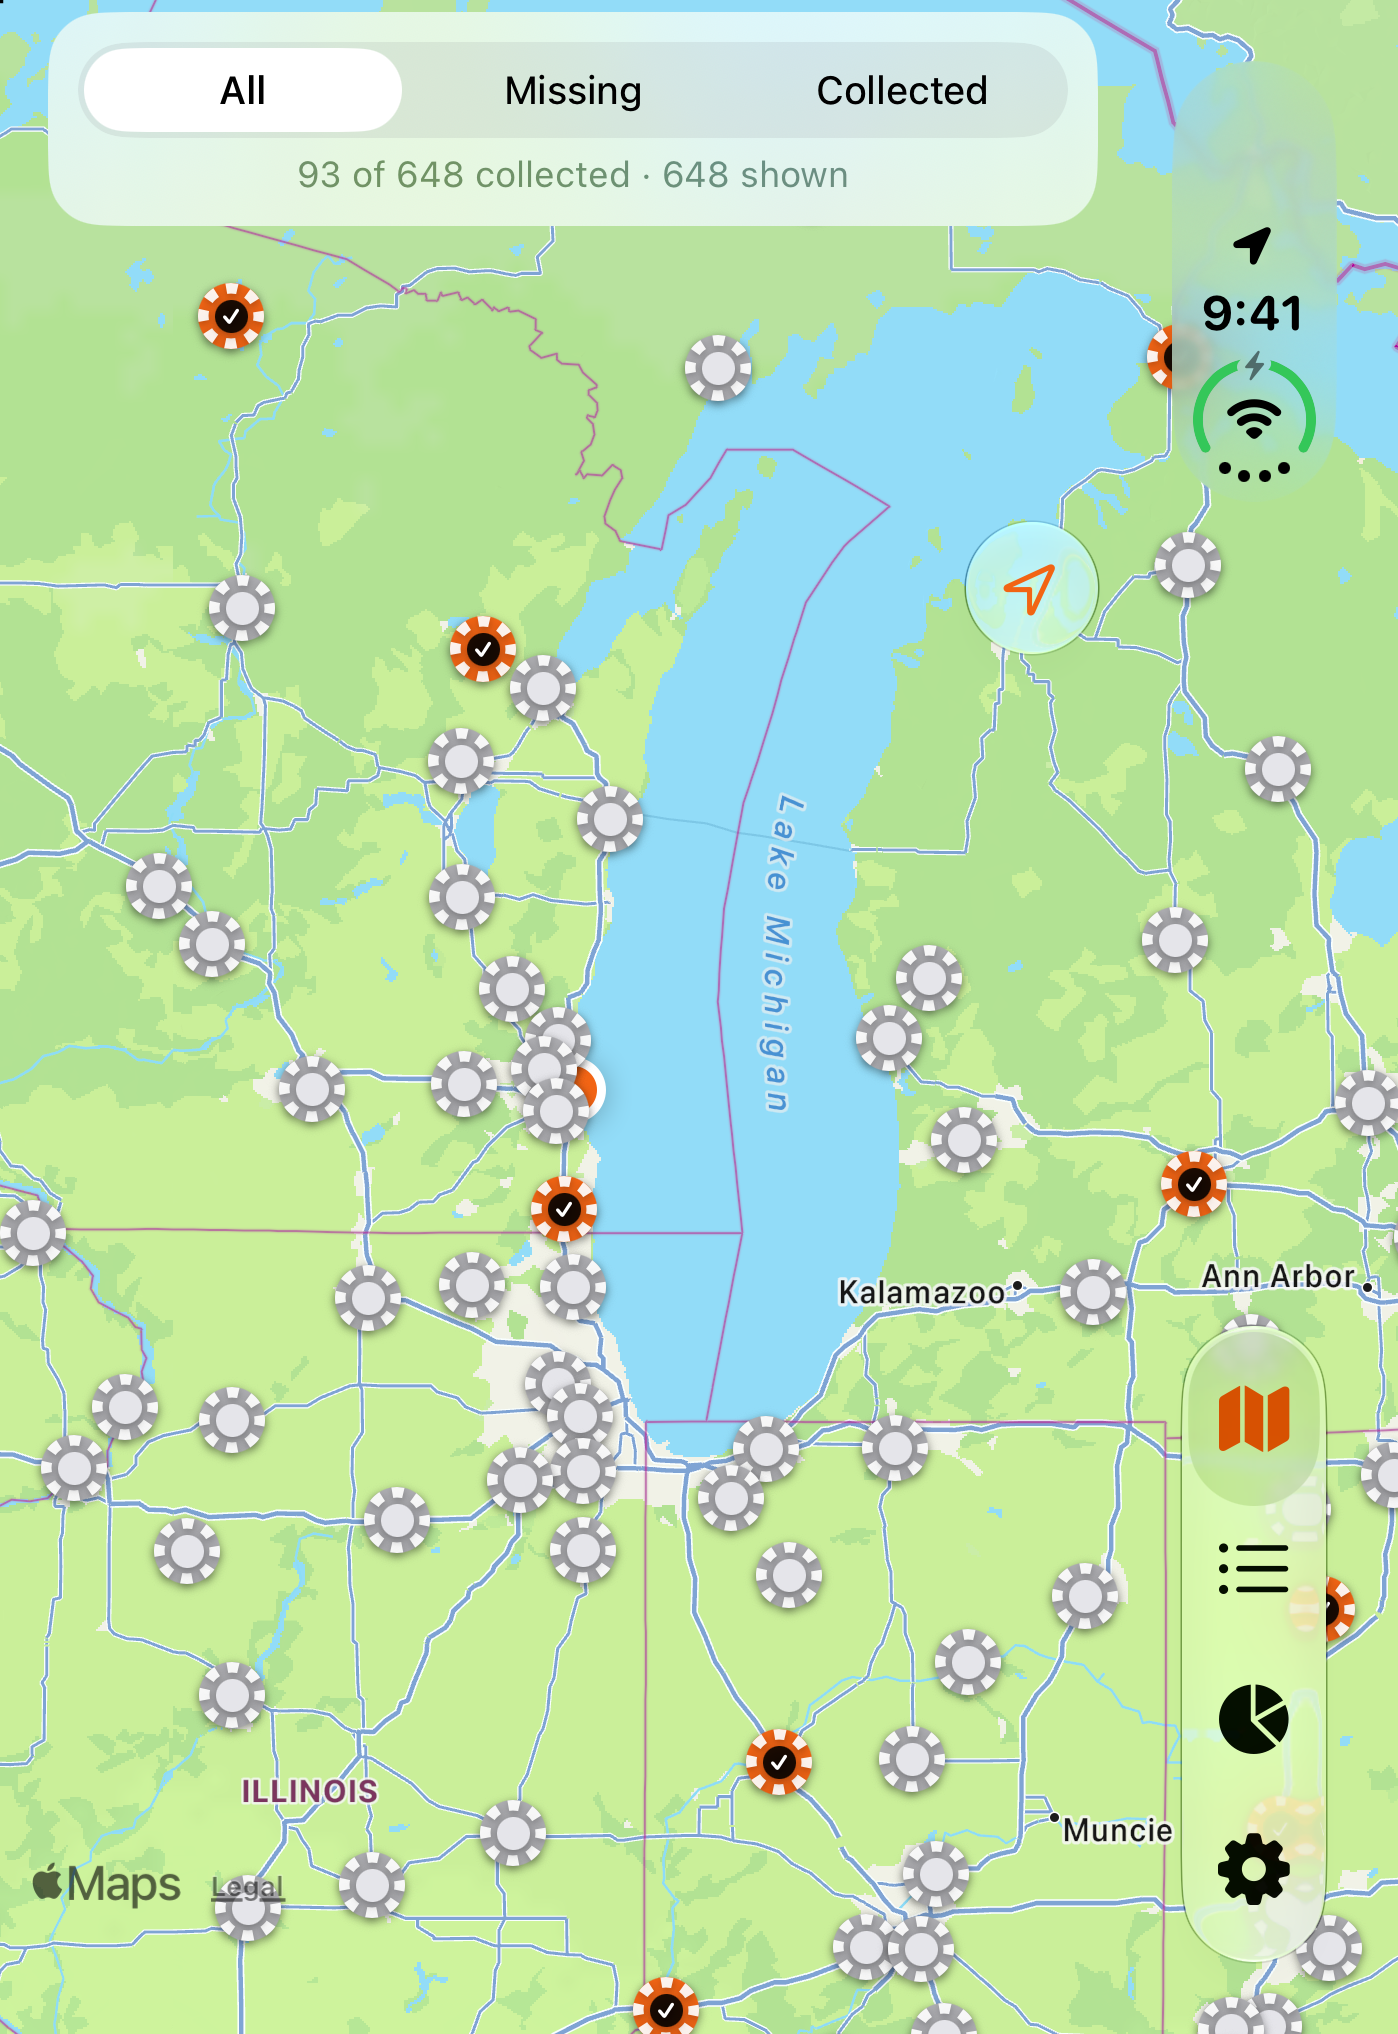
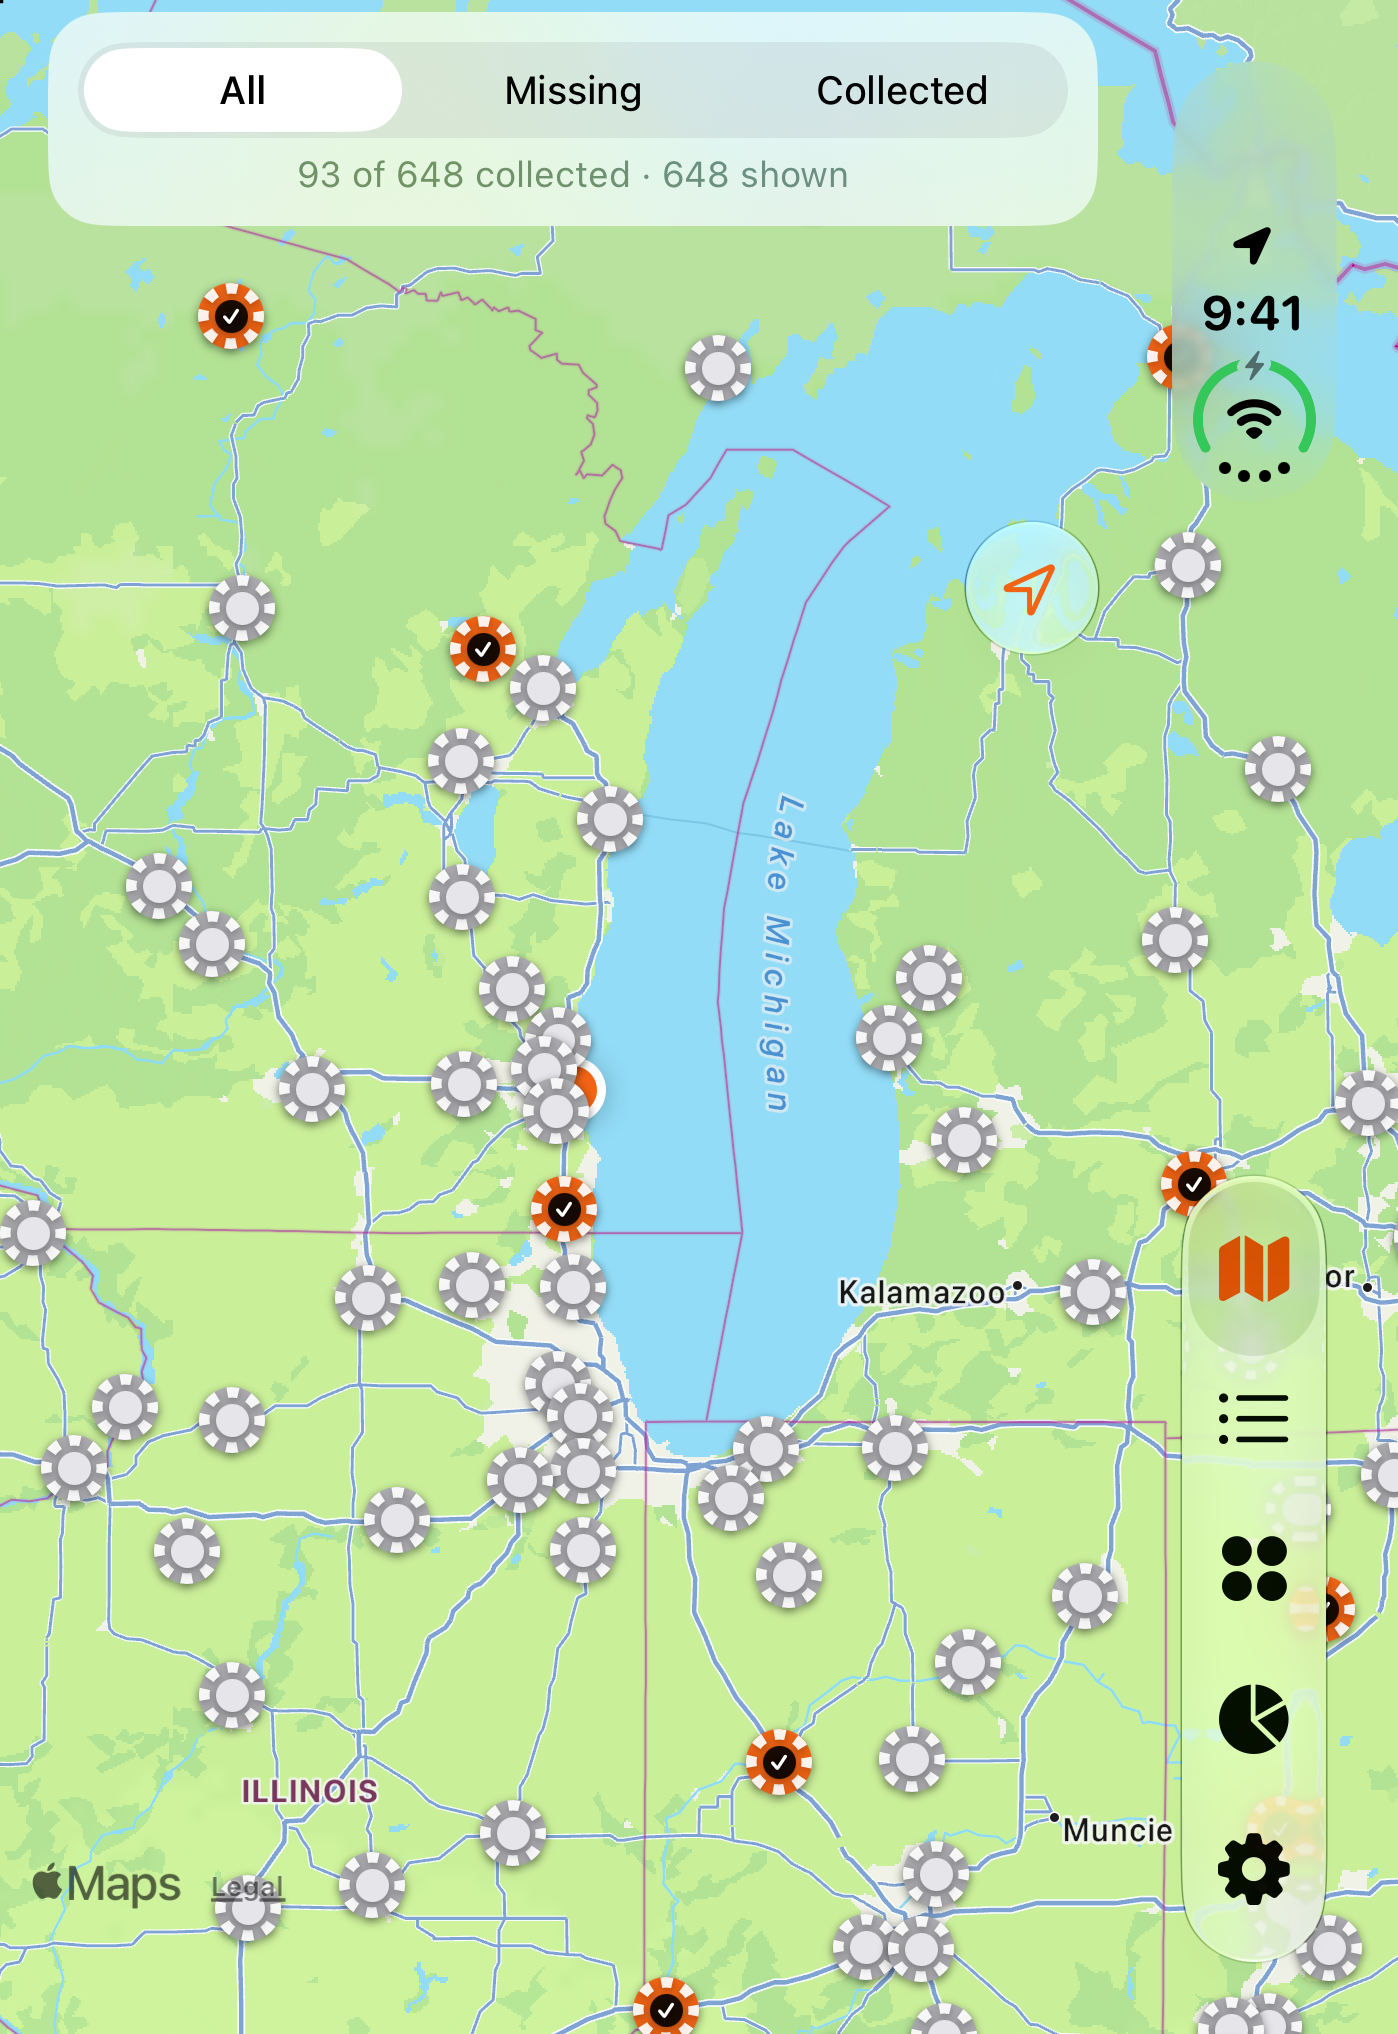
Retake App Store screenshots for 1.3: map, collection, dealers, detail, progress
- Every set (6.9", 6.3", iPhone Duo folded and unfolded) now shows the
  five-tab layout, with the new Collection tab second and chip photos on
  the dealer page.
- Demo chip photos are original stand-in chips drawn by
  Tools/make_demo_chip_photos.swift; Tools/capture_screenshots.sh takes a set.

Changed region(s): [[0.8305, 0.5575, 0.9535, 0.8053]]

diff --git a/Tools/make_demo_chip_photos.swift b/Tools/make_demo_chip_photos.swift
@@ -1,0 +1,163 @@
+// Draws original stand-in chip photos for the demo collection used in App Store screenshots.
+// Not any real chip design. Usage: swift Tools/make_demo_chip_photos.swift HarleyChipTracker/Resources/dealers.json <outDir>
+import AppKit
+import Foundation
+
+struct Payload: Decodable { let dealers: [D] }
+struct D: Decodable { let id: String; let name: String; let city: String; let region: String; let closed: String? }
+
+let args = CommandLine.arguments
+let data = try! Data(contentsOf: URL(fileURLWithPath: args[1]))
+let all = try! JSONDecoder().decode(Payload.self, from: data).dealers.filter { $0.closed == nil }
+let out = URL(fileURLWithPath: args[2])
+try? FileManager.default.createDirectory(at: out, withIntermediateDirectories: true)
+
+let rims: [NSColor] = [
+    NSColor(red: 0.78, green: 0.33, blue: 0.08, alpha: 1), // orange
+    NSColor(red: 0.12, green: 0.12, blue: 0.13, alpha: 1), // black
+    NSColor(red: 0.62, green: 0.1, blue: 0.1, alpha: 1),   // red
+    NSColor(red: 0.1, green: 0.24, blue: 0.5, alpha: 1),   // blue
+    NSColor(red: 0.12, green: 0.38, blue: 0.22, alpha: 1), // green
+    NSColor(red: 0.45, green: 0.45, blue: 0.47, alpha: 1), // silver
+]
+
+func seeded(_ s: String) -> UInt64 { s.unicodeScalars.reduce(1469598103934665603) { ($0 ^ UInt64($1.value)) &* 1099511628211 } }
+
+func drawArc(_ text: String, ctx: CGContext, radius: CGFloat, maxSweep: CGFloat, size: CGFloat, color: NSColor, onTop: Bool) {
+    var fontSize = size
+    var attrs: [NSAttributedString.Key: Any] = [:]
+    var widths: [CGFloat] = []
+    let letters = text.map { String($0) as NSString }
+    repeat {
+        attrs = [.font: NSFont.systemFont(ofSize: fontSize, weight: .heavy), .foregroundColor: color, .kern: fontSize * 0.04]
+        widths = letters.map { $0.size(withAttributes: attrs).width + fontSize * 0.05 }
+        fontSize *= 0.95
+    } while widths.reduce(0, +) / radius > maxSweep
+    let sweep = widths.reduce(0, +) / radius
+    // y-up coordinates: top is +pi/2, text over the top reads clockwise (angle decreasing).
+    var angle = onTop ? .pi / 2 + sweep / 2 : -.pi / 2 - sweep / 2
+    for (letter, width) in zip(letters, widths) {
+        let half = width / 2 / radius
+        angle += onTop ? -half : half
+        ctx.saveGState()
+        ctx.translateBy(x: radius * cos(angle), y: radius * sin(angle))
+        ctx.rotate(by: onTop ? angle - .pi / 2 : angle + .pi / 2)
+        let s = letter.size(withAttributes: attrs)
+        letter.draw(at: CGPoint(x: -s.width / 2, y: -s.height / 2), withAttributes: attrs)
+        ctx.restoreGState()
+        angle += onTop ? -half : half
+    }
+}
+
+func render(_ d: D, index: Int) -> NSBitmapImageRep {
+    let side = 1200
+    let rep = NSBitmapImageRep(bitmapDataPlanes: nil, pixelsWide: side, pixelsHigh: side, bitsPerSample: 8,
+                               samplesPerPixel: 4, hasAlpha: true, isPlanar: false, colorSpaceName: .deviceRGB,
+                               bytesPerRow: 0, bitsPerPixel: 0)!
+    NSGraphicsContext.saveGraphicsState()
+    NSGraphicsContext.current = NSGraphicsContext(bitmapImageRep: rep)
+    let ctx = NSGraphicsContext.current!.cgContext
+    var rng = seeded(d.id)
+    func rand() -> CGFloat { rng = rng &* 6364136223846793005 &+ 1442695040888963407; return CGFloat(rng >> 33) / CGFloat(1 << 31) }
+
+    // Wooden table.
+    let wood = NSGradient(colors: [NSColor(red: 0.36, green: 0.24, blue: 0.15, alpha: 1),
+                                   NSColor(red: 0.25, green: 0.16, blue: 0.1, alpha: 1)])!
+    wood.draw(in: NSRect(x: 0, y: 0, width: side, height: side), angle: -60)
+    for i in 0..<70 {
+        let y = CGFloat(i) * 18 + rand() * 10
+        ctx.setStrokeColor(NSColor(white: rand() > 0.5 ? 0 : 1, alpha: 0.04 + rand() * 0.04).cgColor)
+        ctx.setLineWidth(2 + rand() * 5)
+        ctx.move(to: CGPoint(x: 0, y: y))
+        ctx.addCurve(to: CGPoint(x: CGFloat(side), y: y + rand() * 40 - 20),
+                     control1: CGPoint(x: 400, y: y + rand() * 30 - 15), control2: CGPoint(x: 800, y: y + rand() * 30 - 15))
+        ctx.strokePath()
+    }
+
+    let rim = rims[index % rims.count]
+    let r: CGFloat = 470
+    ctx.translateBy(x: 600 + rand() * 30 - 15, y: 600 + rand() * 30 - 15)
+    ctx.rotate(by: (rand() - 0.5) * 0.5)
+
+    // Shadow and rim.
+    ctx.saveGState()
+    ctx.setShadow(offset: CGSize(width: 14, height: -20), blur: 40, color: NSColor(white: 0, alpha: 0.6).cgColor)
+    ctx.setFillColor(rim.cgColor)
+    ctx.fillEllipse(in: CGRect(x: -r, y: -r, width: 2 * r, height: 2 * r))
+    ctx.restoreGState()
+    // Edge inserts.
+    ctx.setFillColor(NSColor(white: 0.97, alpha: 1).cgColor)
+    for spot in 0..<8 {
+        let a = Double(spot) * .pi / 4 + .pi / 8
+        ctx.saveGState()
+        ctx.translateBy(x: cos(a) * r * 0.92, y: sin(a) * r * 0.92)
+        ctx.rotate(by: a)
+        ctx.fill(CGRect(x: -r * 0.08, y: -r * 0.1, width: r * 0.16, height: r * 0.2))
+        ctx.restoreGState()
+    }
+    // Inlay.
+    let inlay = r * 0.8
+    let paper = NSColor(red: 0.97, green: 0.95, blue: 0.9, alpha: 1)
+    ctx.setFillColor(paper.cgColor)
+    ctx.fillEllipse(in: CGRect(x: -inlay, y: -inlay, width: 2 * inlay, height: 2 * inlay))
+    let ink = rim == rims[5] ? NSColor(white: 0.1, alpha: 1) : rim.blended(withFraction: 0.25, of: .black)!
+    ctx.setStrokeColor(ink.cgColor)
+    ctx.setLineWidth(6)
+    ctx.strokeEllipse(in: CGRect(x: -inlay * 0.94, y: -inlay * 0.94, width: 2 * inlay * 0.94, height: 2 * inlay * 0.94))
+    ctx.strokeEllipse(in: CGRect(x: -inlay * 0.6, y: -inlay * 0.6, width: 2 * inlay * 0.6, height: 2 * inlay * 0.6))
+
+    // Center: state, a star, and a year.
+    let center = d.region.uppercased() as NSString
+    let cAttrs: [NSAttributedString.Key: Any] = [.font: NSFont.systemFont(ofSize: 150, weight: .black), .foregroundColor: ink]
+    let cs = center.size(withAttributes: cAttrs)
+    center.draw(at: CGPoint(x: -cs.width / 2, y: -cs.height / 2 - 18), withAttributes: cAttrs)
+    let star = NSBezierPath()
+    for p in 0..<10 {
+        let a = Double(p) * .pi / 5 + .pi / 2
+        let rr: CGFloat = p.isMultiple(of: 2) ? 38 : 16
+        let pt = CGPoint(x: cos(a) * rr, y: sin(a) * rr + 120)
+        p == 0 ? star.move(to: pt) : star.line(to: pt)
+    }
+    star.close()
+    ink.setFill(); star.fill()
+    let year = "EST. \(1940 + Int(rand() * 70))" as NSString
+    let yAttrs: [NSAttributedString.Key: Any] = [.font: NSFont.systemFont(ofSize: 40, weight: .bold), .foregroundColor: ink, .kern: 4]
+    let ys = year.size(withAttributes: yAttrs)
+    year.draw(at: CGPoint(x: -ys.width / 2, y: -150), withAttributes: yAttrs)
+
+    let name = d.name.replacingOccurrences(of: " Harley-Davidson", with: "").uppercased()
+    drawArc(name, ctx: ctx, radius: inlay * 0.77, maxSweep: 2.6, size: 62, color: ink, onTop: true)
+    drawArc("\(d.city), \(d.region)".uppercased(), ctx: ctx, radius: inlay * 0.77, maxSweep: 2.2, size: 46, color: ink, onTop: false)
+
+    // Soft light from the top left.
+    let light = NSGradient(colors: [NSColor(white: 1, alpha: 0.14), NSColor(white: 1, alpha: 0)])!
+    ctx.saveGState()
+    ctx.addEllipse(in: CGRect(x: -r, y: -r, width: 2 * r, height: 2 * r)); ctx.clip()
+    light.draw(in: NSRect(x: -r, y: -r, width: 2 * r, height: 2 * r), angle: -50)
+    ctx.restoreGState()
+
+    NSGraphicsContext.restoreGraphicsState()
+    return rep
+}
+
+func jpeg(_ rep: NSBitmapImageRep, side: Int, to url: URL) {
+    let small = NSBitmapImageRep(bitmapDataPlanes: nil, pixelsWide: side, pixelsHigh: side, bitsPerSample: 8,
+                                 samplesPerPixel: 4, hasAlpha: true, isPlanar: false, colorSpaceName: .deviceRGB,
+                                 bytesPerRow: 0, bitsPerPixel: 0)!
+    NSGraphicsContext.saveGraphicsState()
+    NSGraphicsContext.current = NSGraphicsContext(bitmapImageRep: small)
+    NSGraphicsContext.current!.imageInterpolation = .high
+    rep.draw(in: NSRect(x: 0, y: 0, width: side, height: side))
+    NSGraphicsContext.restoreGraphicsState()
+    try! small.representation(using: .jpeg, properties: [.compressionFactor: 0.85])!.write(to: url)
+}
+
+var n = 0
+for (offset, d) in all.enumerated() where offset.isMultiple(of: 7) {
+    let rep = render(d, index: n)
+    let file = d.id.addingPercentEncoding(withAllowedCharacters: CharacterSet.alphanumerics.union(CharacterSet(charactersIn: "-_"))) ?? d.id
+    jpeg(rep, side: 1200, to: out.appendingPathComponent(file + ".jpg"))
+    jpeg(rep, side: 360, to: out.appendingPathComponent(file + ".thumb.jpg"))
+    n += 1
+}
+print("rendered \(n)")

diff --git a/README.md b/README.md
@@ -11,11 +11,11 @@ Chip Chaser is an iPhone app for Harley-Davidson chip collectors (it started out
 
 On iPhone Duo's outer screen (folded), iOS moves the tab bar to a rail along the right edge; no layout changes were needed:
 
-<img src="docs/appstore/duo/preview.png" alt="Map, Dealers, Progress and dealer detail on iPhone Duo, with the tab bar as a rail on the right">
+<img src="docs/appstore/duo/preview.png" alt="Map, Collection, Dealers, dealer detail and Progress on iPhone Duo, with the tab bar as a rail on the right">
 
 Unfolded, the app fills the big inner screen in landscape, with the same rail on the right:
 
-<img src="docs/appstore/duo-unfolded/preview.png" alt="Map, Dealers, Progress and dealer detail on the unfolded iPhone Duo's inner screen, in landscape">
+<img src="docs/appstore/duo-unfolded/preview.png" alt="Map, Collection, Dealers, dealer detail and Progress on the unfolded iPhone Duo's inner screen, in landscape">
 
 Full-size Duo screenshots are in [`docs/appstore/duo/`](docs/appstore/duo/) (folded) and [`docs/appstore/duo-unfolded/`](docs/appstore/duo-unfolded/), next to the App Store screenshots in [`docs/appstore/`](docs/appstore/).
 
@@ -86,7 +86,7 @@ From the command line:
 xcodebuild test -project HarleyChipTracker.xcodeproj -scheme HarleyChipTracker -destination 'platform=iOS Simulator,name=iPhone 18 Pro'
 ```
 
-Debug builds accept `-demoData YES` (in-memory sample collection), `-debugTab dealers|collection|progress|settings` (the app opens on the map otherwise), `-debugDealer <id>` (with `-debugTab dealers`), and `-debugScanImage <path>` (with `-debugTab collection`: opens Add from Photo on that image; add `-debugScanAdd YES` to add what it finds) launch arguments for screenshots and simulator checks. The App Store set in `docs/appstore/` is, in order: `-demoData YES`, then adding `-debugTab dealers`, `-debugTab progress`, and `-debugTab dealers -debugDealer hd-210`, with the simulator's location set to Milwaukee (43.0389, -87.9065) and the status bar at 9:41.
+Debug builds accept `-demoData YES` (in-memory sample collection), `-debugTab dealers|collection|progress|settings` (the app opens on the map otherwise), `-debugDealer <id>` (with `-debugTab dealers`), and `-debugScanImage <path>` (with `-debugTab collection`: opens Add from Photo on that image; add `-debugScanAdd YES` to add what it finds) launch arguments for screenshots and simulator checks. The App Store set in `docs/appstore/` is, in order: `-demoData YES`, then adding `-debugTab collection`, `-debugTab dealers`, `-debugTab dealers -debugDealer hd-210`, and `-debugTab progress`, with the simulator's location set to Milwaukee (43.0389, -87.9065) and the status bar at 9:41. `Tools/capture_screenshots.sh <simulator> <out dir> [display]` takes the whole set. It fills the demo collection's photos with original stand-in chips drawn by `Tools/make_demo_chip_photos.swift` (not any real chip design).
 
 ## Releasing to TestFlight
 
